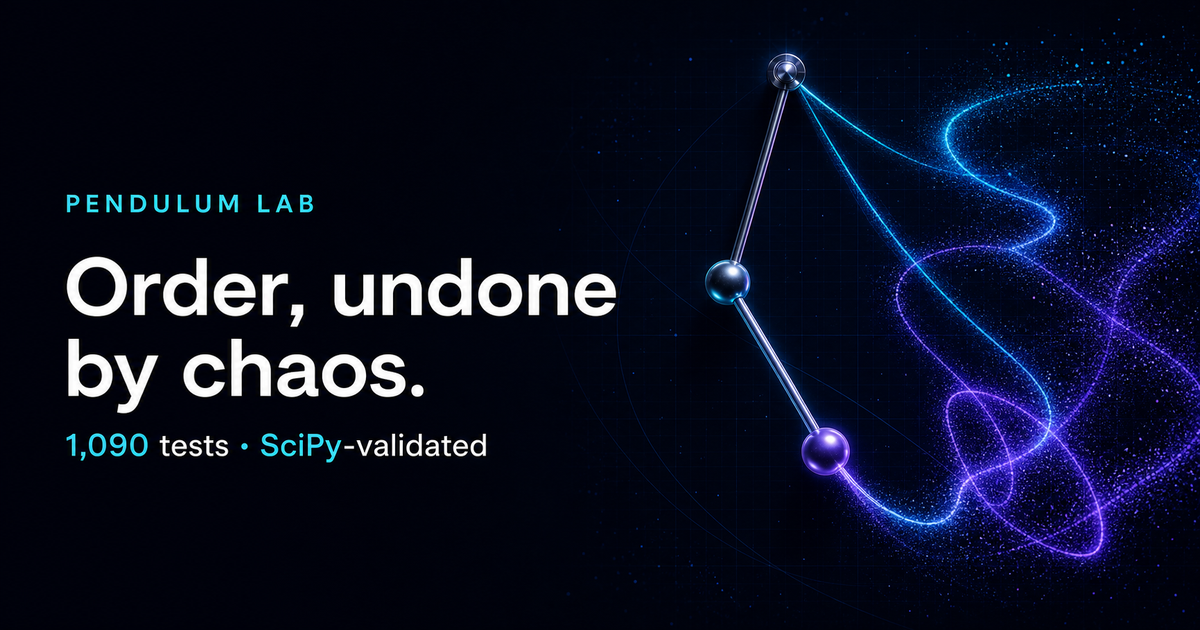
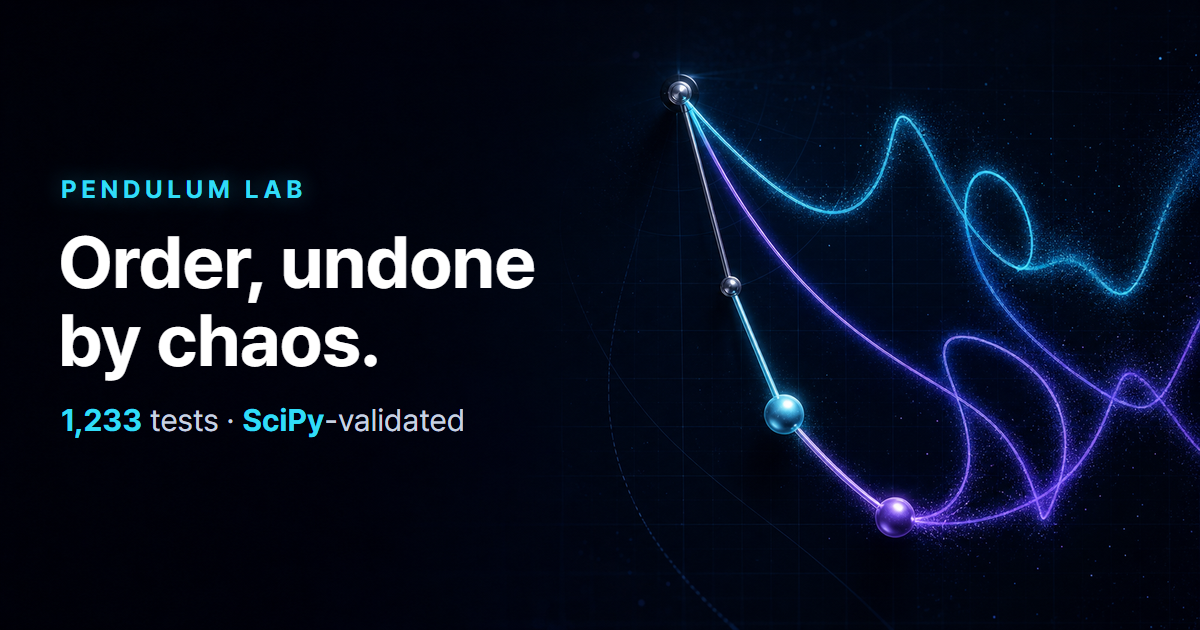
chore: resync evidence, copy, changelog cards, and og-card to pendulum-lab@3110964
- Evidence snapshot now records the boundary-hardening source commit with
  dirtyWorktree=false and the 1233/1233 suite; the demo-kernel manifest is
  stamped with the same provenance (numerics re-pinned by the rhsDouble
  fixture test, 34/34 passing).
- Copy counts, Korean dictionary, no-JS fallback spans, and the generated
  social card all quote 1,233 tests; changelog highlights and the static
  fallback cards lead with the new hardening release notes.
- The two smoke tests that pinned prose by hand now derive their expected
  static test count and first changelog card title from the synced JSON, so
  the next evidence bump cannot silently drift past them.

Changed region(s): [[0.555, 0.0603, 1.0, 0.9048], [0.0308, 0.2714, 0.5242, 0.7238], [0.5858, 0.9952, 0.6167, 1.0]]

diff --git a/tests/landing-smoke.spec.ts b/tests/landing-smoke.spec.ts
@@ -1,3 +1,4 @@
+import { readFile } from 'node:fs/promises';
 import { expect, test } from '@playwright/test';
 import AxeBuilder from '@axe-core/playwright';
 
@@ -88,15 +89,32 @@ test('WebGL context loss fails over to the static artwork', async ({ page }) => 
 });
 
 test('content stays readable when the interaction script fails to load', async ({ page }) => {
+  // The static no-JS cards must lead with the same release highlight the
+  // hydrator would render, so the expectation is derived from the synced
+  // changelog-highlights.json rather than hardcoded prose.
+  const changelog = JSON.parse(
+    await readFile(new URL('../assets/changelog-highlights.json', import.meta.url), 'utf8')
+  ) as { highlights: Array<{ title: string }> };
+
   await page.route('**/assets/main.js', (route) => route.abort());
   await page.goto('/');
   await expect(page.locator('#validation .sec-head')).toBeVisible();
   await expect(page.locator('#validation .sec-head')).toHaveCSS('opacity', '1');
   await expect(page.locator('[data-changelog-list] .changelog-card')).toHaveCount(3);
-  await expect(page.locator('[data-changelog-list] .changelog-card').first()).toContainText('The light theme is now whole');
+  await expect(page.locator('[data-changelog-list] .changelog-card').first()).toContainText(
+    changelog.highlights[0].title
+  );
 });
 
 test('expired or malformed evidence is fail-closed and visibly labelled', async ({ page }) => {
+  // The baked static copy equals the committed evidence summary
+  // (scripts/check-static-assets.mjs pins that), so the fail-closed
+  // expectation is derived from the same file instead of hardcoded.
+  const committed = JSON.parse(
+    await readFile(new URL('../assets/evidence-summary.json', import.meta.url), 'utf8')
+  ) as { tests: { total: number } };
+  const staticCount = new Intl.NumberFormat('en-US').format(committed.tests.total);
+
   await page.route('**/assets/evidence-summary.json', async (route) => {
     const response = await route.fetch();
     const summary = await response.json();
@@ -108,7 +126,7 @@ test('expired or malformed evidence is fail-closed and visibly labelled', async 
   await page.goto('/?captureHero=1');
   await expect(page.locator('body')).toHaveClass(/evidence-stale/);
   await expect(page.locator('[data-evidence-freshness]')).toContainText('Evidence expired');
-  await expect(page.locator('[data-evidence="tests.formatted"]')).toHaveText('1,090');
+  await expect(page.locator('[data-evidence="tests.formatted"]')).toHaveText(staticCount);
 
   await page.unroute('**/assets/evidence-summary.json');
   await page.route('**/assets/evidence-summary.json', (route) => route.fulfill({
@@ -118,7 +136,7 @@ test('expired or malformed evidence is fail-closed and visibly labelled', async 
   await page.reload();
   await expect(page.locator('body')).toHaveClass(/evidence-invalid/);
   await expect(page.locator('[data-evidence-freshness]')).toContainText('Evidence unavailable');
-  await expect(page.locator('[data-evidence="tests.formatted"]')).toHaveText('1,090');
+  await expect(page.locator('[data-evidence="tests.formatted"]')).toHaveText(staticCount);
 });
 
 test('mobile launch CTA stays inside the viewport', async ({ page }) => {

diff --git a/ko.html b/ko.html
@@ -3,11 +3,11 @@
 <meta charset="UTF-8">
 <meta name="viewport" content="width=device-width, initial-scale=1.0">
 <title>Pendulum Lab — 질서, 카오스에 무너지다</title>
-<meta name="description" content="비선형 진자 동역학을 위한 프레임워크 없는 TypeScript 엔진과 브라우저 실험실 — 13종의 주력 적분기, 전체 랴푸노프 진단, CPU 오러클로 게이트되는 WebGPU 파이프라인, 해시 검증 연구 번들. 1,090개 단위 테스트, SciPy와 출판 문헌으로 검증.">
+<meta name="description" content="비선형 진자 동역학을 위한 프레임워크 없는 TypeScript 엔진과 브라우저 실험실 — 13종의 주력 적분기, 전체 랴푸노프 진단, CPU 오러클로 게이트되는 WebGPU 파이프라인, 해시 검증 연구 번들. 1,233개 단위 테스트, SciPy와 출판 문헌으로 검증.">
 <meta name="theme-color" content="#02040b">
 <meta name="color-scheme" content="dark">
 <meta property="og:title" content="Pendulum Lab — 질서, 카오스에 무너지다">
-<meta property="og:description" content="비선형 진자 동역학을 위한 프레임워크 없는 TypeScript 엔진과 브라우저 실험실 — 13종의 주력 적분기, 전체 랴푸노프 진단, CPU 오러클로 게이트되는 WebGPU 파이프라인, 해시 검증 연구 번들. 1,090개 단위 테스트, SciPy와 출판 문헌으로 검증.">
+<meta property="og:description" content="비선형 진자 동역학을 위한 프레임워크 없는 TypeScript 엔진과 브라우저 실험실 — 13종의 주력 적분기, 전체 랴푸노프 진단, CPU 오러클로 게이트되는 WebGPU 파이프라인, 해시 검증 연구 번들. 1,233개 단위 테스트, SciPy와 출판 문헌으로 검증.">
 <meta property="og:type" content="website">
 <meta property="og:url" content="https://elliotjung.github.io/pendulum-landing/ko.html">
 <meta property="og:locale" content="ko_KR">
@@ -16,12 +16,12 @@
 <meta property="og:image:type" content="image/png">
 <meta property="og:image:width" content="1200">
 <meta property="og:image:height" content="630">
-<meta property="og:image:alt" content="Pendulum Lab — Order, undone by chaos. 1,090 tests and SciPy-validated.">
+<meta property="og:image:alt" content="Pendulum Lab — Order, undone by chaos. 1,233 tests and SciPy-validated.">
 <meta name="twitter:card" content="summary_large_image">
 <meta name="twitter:title" content="Pendulum Lab — 질서, 카오스에 무너지다">
-<meta name="twitter:description" content="비선형 진자 동역학을 위한 프레임워크 없는 TypeScript 엔진과 브라우저 실험실 — 13종의 주력 적분기, 전체 랴푸노프 진단, CPU 오러클로 게이트되는 WebGPU 파이프라인, 해시 검증 연구 번들. 1,090개 단위 테스트, SciPy와 출판 문헌으로 검증.">
+<meta name="twitter:description" content="비선형 진자 동역학을 위한 프레임워크 없는 TypeScript 엔진과 브라우저 실험실 — 13종의 주력 적분기, 전체 랴푸노프 진단, CPU 오러클로 게이트되는 WebGPU 파이프라인, 해시 검증 연구 번들. 1,233개 단위 테스트, SciPy와 출판 문헌으로 검증.">
 <meta name="twitter:image" content="https://elliotjung.github.io/pendulum-landing/assets/og-card.png">
-<meta name="twitter:image:alt" content="Pendulum Lab — Order, undone by chaos. 1,090 tests and SciPy-validated.">
+<meta name="twitter:image:alt" content="Pendulum Lab — Order, undone by chaos. 1,233 tests and SciPy-validated.">
 <link rel="canonical" href="https://elliotjung.github.io/pendulum-landing/ko.html">
 <link rel="alternate" hreflang="en" href="https://elliotjung.github.io/pendulum-landing/">
 <link rel="alternate" hreflang="ko" href="https://elliotjung.github.io/pendulum-landing/ko.html">
@@ -135,7 +135,7 @@
           <a class="btn ghost" href="#console">실험 실행</a>
         </div>
         <p class="hero-trust-line" data-mouse="5">
-          <strong data-evidence="tests.formatted">1,090</strong> 테스트
+          <strong data-evidence="tests.formatted">1,233</strong> 테스트
           <span aria-hidden="true">·</span>
           <strong>SciPy</strong>-검증
           <span aria-hidden="true">·</span>
@@ -546,7 +546,7 @@
 
       <div class="val-side">
         <div class="val-stat reveal">
-          <div class="big" data-count="1090" data-decimals="0" data-evidence-count="tests.passed"></div>
+          <div class="big" data-count="1233" data-decimals="0" data-evidence-count="tests.passed"></div>
           <div class="cap">단위 테스트 · 전부 그린</div>
           <p>여기에 Chromium·Firefox·WebKit·모바일 E2E 스위트, 그리고 기계가 읽을 수 있는 Stryker 집계 <span data-evidence="mutation.scoreLabel">65.32% · low band · 29 shards</span>.</p>
         </div>
@@ -570,7 +570,7 @@
         <span class="pass"><i></i> CI에서 강제</span>
       </div>
       <div class="ledger-rows">
-        <div class="ledger-row"><span class="k">verify</span><span class="v" data-evidence="ledger.verify">CSP-safe lint → strict typecheck → module-size ratchet → 1090 unit tests → result-count guard → docs sync → format gate</span></div>
+        <div class="ledger-row"><span class="k">verify</span><span class="v" data-evidence="ledger.verify">CSP-safe lint → strict typecheck → module-size ratchet → 1233 unit tests → result-count guard → docs sync → format gate</span></div>
         <div class="ledger-row"><span class="k">browsers</span><span class="v">Chromium·모바일 Chrome·Firefox·WebKit에서 Playwright E2E, 호스트별 시각 회귀 기준선 포함</span></div>
         <div class="ledger-row"><span class="k">memory</span><span class="v">커밋된 브라우저 벤치마크 기준선 대비 하드 메모리 회귀 게이트</span></div>
         <div class="ledger-row"><span class="k">evidence</span><span class="v">리포트가 소스 커밋을 증명하고, 리뷰어 콘솔이 기계가 읽는 인증 체인을 읽습니다</span></div>
@@ -601,9 +601,9 @@
       <p>이 요약은 이 페이지의 검증 수치와 같은 커밋에 있는 시뮬레이션 저장소에서 동기화됩니다.</p>
     </div>
     <div class="changelog-grid" data-changelog-list="">
-      <article class="changelog-card"><span>01</span><h3>라이트 테마가 이제 완전해졌습니다.</h3><p>최종 순서의 포슬린 테마가 모든 표면, 컴포넌트, 채택된 스타일시트를 포괄합니다.</p></article>
-      <article class="changelog-card"><span>02</span><h3>공통 마감, 기준선이 고정된 다크 테마</h3><p>분석 캔버스에 계기판형 대기 화면을 더하면서 기존 다크 시각 기준선은 그대로 고정했습니다.</p></article>
-      <article class="changelog-card"><span>03</span><h3>로케일 계약 복구</h3><p>현지화된 툴팁이 번역 안내와 함께 표준 영어 도구 이름을 유지합니다.</p></article>
+      <article class="changelog-card"><span>01</span><h3>Numerical work budgets with explicit contracts</h3><p>Every chaos diagnostic now validates steps, horizons, and state up front and refuses out-of-budget work with typed errors.</p></article>
+      <article class="changelog-card"><span>02</span><h3>FTLE horizons integrate the exact residual time</h3><p>Finite-time exponents keep the precise horizon, with a Jacobi-based singular value immune to seed and overflow bias.</p></article>
+      <article class="changelog-card"><span>03</span><h3>Event detection is time-ordered and exact at the cap</h3><p>Simultaneous crossings are refined and sorted by time, and the event cap returns the last refined crossing.</p></article>
     </div>
     <div class="guide-foot reveal">
       <a class="btn ghost" data-changelog-source="" href="https://github.com/elliotjung/pendulum-lab/blob/master/CHANGELOG.md">전체 변경 기록 읽기</a>

diff --git a/index.html b/index.html
@@ -4,7 +4,7 @@
 <meta charset="UTF-8" />
 <meta name="viewport" content="width=device-width, initial-scale=1.0" />
 <title>Pendulum Lab — Order, Undone by Chaos</title>
-<meta name="description" content="Explore nonlinear pendulum dynamics in a browser lab with 1,090 verified tests, SciPy cross-validation, Lyapunov analysis, WebGPU, and reproducible exports." />
+<meta name="description" content="Explore nonlinear pendulum dynamics in a browser lab with 1,233 verified tests, SciPy cross-validation, Lyapunov analysis, WebGPU, and reproducible exports." />
 <meta name="theme-color" content="#02040b" />
 <meta name="color-scheme" content="dark" />
 <meta property="og:title" content="Pendulum Lab — Order, Undone by Chaos" />
@@ -17,12 +17,12 @@
 <meta property="og:image:type" content="image/png" />
 <meta property="og:image:width" content="1200" />
 <meta property="og:image:height" content="630" />
-<meta property="og:image:alt" content="Pendulum Lab — Order, undone by chaos. 1,090 tests and SciPy-validated." />
+<meta property="og:image:alt" content="Pendulum Lab — Order, undone by chaos. 1,233 tests and SciPy-validated." />
 <meta name="twitter:card" content="summary_large_image" />
 <meta name="twitter:title" content="Pendulum Lab — Order, Undone by Chaos" />
 <meta name="twitter:description" content="A browser-native nonlinear dynamics lab with synchronized test, reviewer, publication, and GPU evidence." />
 <meta name="twitter:image" content="https://elliotjung.github.io/pendulum-landing/assets/og-card.png" />
-<meta name="twitter:image:alt" content="Pendulum Lab — Order, undone by chaos. 1,090 tests and SciPy-validated." />
+<meta name="twitter:image:alt" content="Pendulum Lab — Order, undone by chaos. 1,233 tests and SciPy-validated." />
 <link rel="canonical" href="https://elliotjung.github.io/pendulum-landing/" />
 <link rel="alternate" hreflang="en" href="https://elliotjung.github.io/pendulum-landing/" />
 <link rel="alternate" hreflang="ko" href="https://elliotjung.github.io/pendulum-landing/ko.html" />
@@ -137,7 +137,7 @@
           <a class="btn ghost" href="#console">Run the Experiment</a>
         </div>
         <p class="hero-trust-line" data-mouse="5">
-          <strong data-evidence="tests.formatted">1,090</strong> tests
+          <strong data-evidence="tests.formatted">1,233</strong> tests
           <span aria-hidden="true">·</span>
           <strong>SciPy</strong>-validated
           <span aria-hidden="true">·</span>
@@ -557,7 +557,7 @@
 
       <div class="val-side">
         <div class="val-stat reveal">
-          <div class="big" data-count="1090" data-decimals="0" data-evidence-count="tests.passed"></div>
+          <div class="big" data-count="1233" data-decimals="0" data-evidence-count="tests.passed"></div>
           <div class="cap">Unit tests · all green</div>
           <p>Plus Chromium, Firefox, WebKit and mobile end-to-end suites, with a machine-readable Stryker aggregate of <span data-evidence="mutation.scoreLabel">65.32% · low band · 29 shards</span>.</p>
         </div>
@@ -581,7 +581,7 @@
         <span class="pass"><i></i> enforced in CI</span>
       </div>
       <div class="ledger-rows">
-        <div class="ledger-row"><span class="k">verify</span><span class="v" data-evidence="ledger.verify">CSP-safe lint → strict typecheck → module-size ratchet → 1090 unit tests → result-count guard → docs sync → format gate</span></div>
+        <div class="ledger-row"><span class="k">verify</span><span class="v" data-evidence="ledger.verify">CSP-safe lint → strict typecheck → module-size ratchet → 1233 unit tests → result-count guard → docs sync → format gate</span></div>
         <div class="ledger-row"><span class="k">browsers</span><span class="v">Playwright e2e on Chromium, mobile-Chrome, Firefox and WebKit, with visual-regression baselines per host</span></div>
         <div class="ledger-row"><span class="k">memory</span><span class="v">Hard memory-regression gate against a committed browser-benchmark baseline</span></div>
         <div class="ledger-row"><span class="k">evidence</span><span class="v">Reports attest their source commit; a reviewer console reads the machine-readable certification chain</span></div>
@@ -612,9 +612,9 @@
       <p>These highlights are synchronized from the simulation repository at the same evidence commit used by this page.</p>
     </div>
     <div class="changelog-grid" data-changelog-list>
-      <article class="changelog-card"><span>01</span><h3>The light theme is now whole.</h3><p>A final-position porcelain theme now covers every surface, component, and adopted stylesheet.</p></article>
-      <article class="changelog-card"><span>02</span><h3>Shared finish, baseline-frozen dark</h3><p>Analysis canvases gain an instrument-face idle state while existing dark visual baselines remain pinned.</p></article>
-      <article class="changelog-card"><span>03</span><h3>Locale contract restored</h3><p>Localized tooltips retain the canonical English tool name alongside translated guidance.</p></article>
+      <article class="changelog-card"><span>01</span><h3>Numerical work budgets with explicit contracts</h3><p>Every chaos diagnostic now validates steps, horizons, and state up front and refuses out-of-budget work with typed errors.</p></article>
+      <article class="changelog-card"><span>02</span><h3>FTLE horizons integrate the exact residual time</h3><p>Finite-time exponents keep the precise horizon, with a Jacobi-based singular value immune to seed and overflow bias.</p></article>
+      <article class="changelog-card"><span>03</span><h3>Event detection is time-ordered and exact at the cap</h3><p>Simultaneous crossings are refined and sorted by time, and the event cap returns the last refined crossing.</p></article>
     </div>
     <div class="guide-foot reveal">
       <a class="btn ghost" data-changelog-source href="https://github.com/elliotjung/pendulum-lab/blob/master/CHANGELOG.md">Read the full changelog</a>

diff --git a/assets/i18n-core.js b/assets/i18n-core.js
@@ -324,7 +324,7 @@
 
   const TITLE_KO = 'Pendulum Lab — 질서, 카오스에 무너지다';
   const META_DESCRIPTION_KO =
-    '비선형 진자 동역학을 위한 프레임워크 없는 TypeScript 엔진과 브라우저 실험실 — 13종의 주력 적분기, 전체 랴푸노프 진단, CPU 오러클로 게이트되는 WebGPU 파이프라인, 해시 검증 연구 번들. 1,090개 단위 테스트, SciPy와 출판 문헌으로 검증.';
+    '비선형 진자 동역학을 위한 프레임워크 없는 TypeScript 엔진과 브라우저 실험실 — 13종의 주력 적분기, 전체 랴푸노프 진단, CPU 오러클로 게이트되는 WebGPU 파이프라인, 해시 검증 연구 번들. 1,233개 단위 테스트, SciPy와 출판 문헌으로 검증.';
 
   function normalize(text) {
     return text.replace(/\s+/g, ' ').trim();